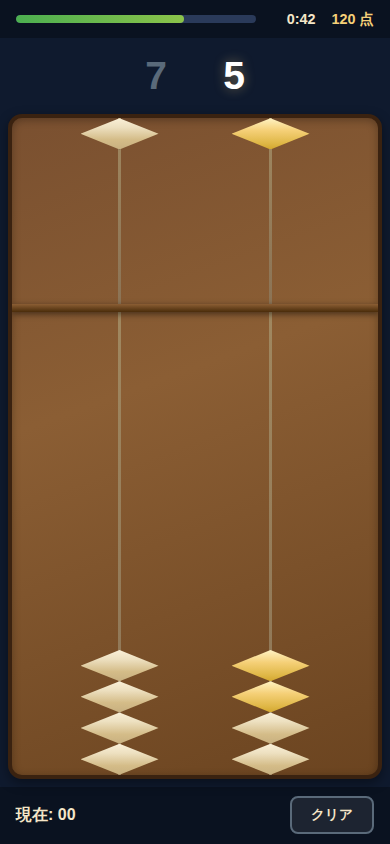
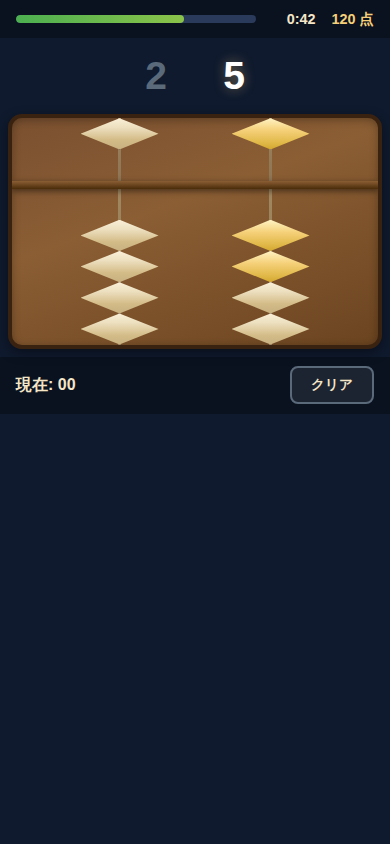
算盤のサイズを珠の高さ基準に縮小し、余白を正確に珠1つ分にする
- CSS変数 --bead-h を導入し珠の高さを一元管理
- 上段・下段のサイズをflex比率から calc(var(--bead-h) * N) に変更
- abacus-area と abacus-frame から flex:1 を除去し固定サイズ化

https://claude.ai/code/session_01X5FodR9DycAJM7E2F2hFTw

diff --git a/src/styles/main.css b/src/styles/main.css
@@ -1,4 +1,8 @@
 /* ===== Reset & Base ===== */
+:root {
+  --bead-h: clamp(26px, 8vw, 38px);
+}
+
 *,
 *::before,
 *::after {
@@ -171,7 +175,6 @@ body {
 
 /* Abacus area */
 .abacus-area {
-  flex: 1;
   width: 100%;
   max-width: 400px;
   margin: 0 auto;
@@ -182,7 +185,6 @@ body {
 }
 
 .abacus-frame {
-  flex: 1;
   background: linear-gradient(160deg, #7a5030, #8b5e34 40%, #6b4420);
   border-radius: 14px;
   border: 4px solid #3a2210;
@@ -195,7 +197,7 @@ body {
 }
 
 .abacus-upper {
-  flex: 2;
+  height: calc(var(--bead-h) * 2);
   display: flex;
   justify-content: space-around;
   align-items: stretch;
@@ -212,7 +214,7 @@ body {
 }
 
 .abacus-lower {
-  flex: 5;
+  height: calc(var(--bead-h) * 5);
   display: flex;
   justify-content: space-around;
   align-items: stretch;
@@ -249,7 +251,7 @@ body {
 
 .bead {
   width: clamp(52px, 20vw, 80px);
-  height: clamp(26px, 8vw, 38px);
+  height: var(--bead-h);
   background: linear-gradient(180deg, #faf0d8 0%, #ede0c0 30%, #d4bc88 70%, #c8b080 100%);
   clip-path: polygon(50% 0%, 100% 50%, 50% 100%, 0% 50%);
   filter: drop-shadow(0 2px 3px rgba(0, 0, 0, 0.3));
